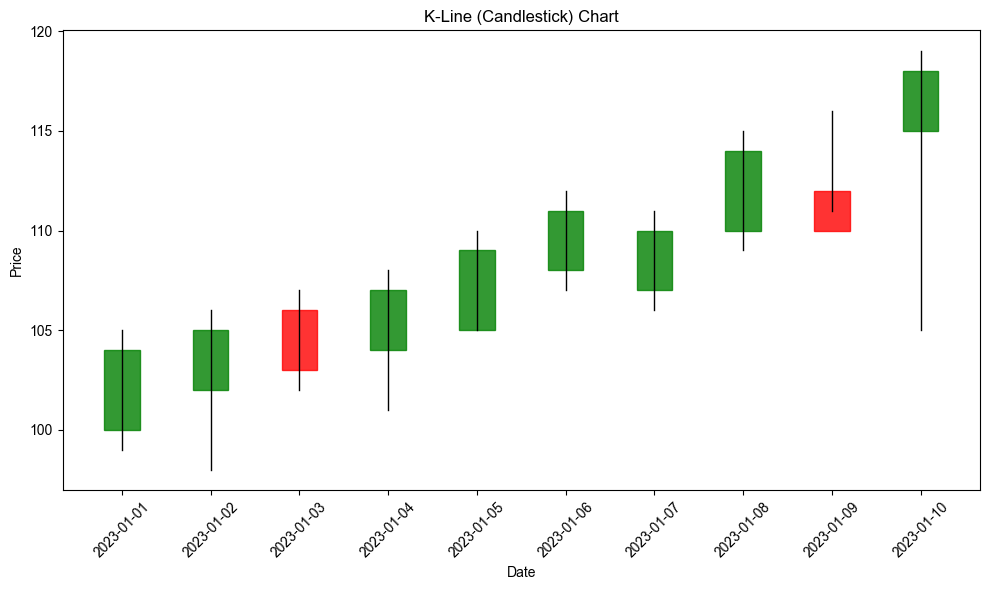
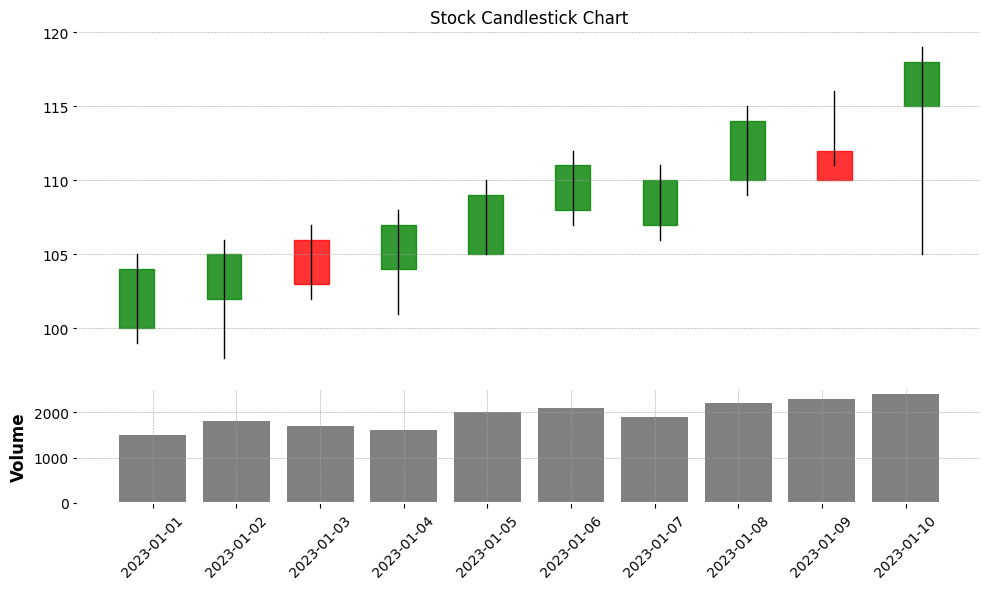
Commit on 2024-09-17 23:51:20

diff --git a/D80_機器學習/92_Matplotlib.md b/D80_機器學習/92_Matplotlib.md
@@ -1064,8 +1064,8 @@ _或稱 `長條圖`_
 
     ```python
     import matplotlib.pyplot as plt
-    import numpy as np
     import pandas as pd
+    import numpy as np
 
     # 模擬股票數據
     data = {
@@ -1074,16 +1074,19 @@ _或稱 `長條圖`_
         "High": [105, 106, 107, 108, 110, 112, 111, 115, 116, 119],
         "Low": [99, 98, 102, 101, 105, 107, 106, 109, 111, 105],
         "Close": [104, 105, 103, 107, 109, 111, 110, 114, 110, 118],
+        "Volume": [1500, 1800, 1700, 1600, 2000, 2100, 1900, 2200, 2300, 2400],
     }
 
     # 將數據轉換為 DataFrame 並設置日期為索引
     df = pd.DataFrame(data)
     df.set_index("Date", inplace=True)
 
-    # 開始繪製 K 線圖
-    fig, ax = plt.subplots(figsize=(10, 6))
+    # 創建子圖，用來同時顯示 K 線圖和成交量
+    fig, (ax1, ax2) = plt.subplots(
+        2, 1, gridspec_kw={"height_ratios": [3, 1]}, figsize=(10, 6)
+    )
 
-    # 設置顏色：上漲用綠色，下跌用紅色
+    # K 線圖顏色設定
     colors = [
         "green" if close >= open_ else "red"
         for open_, close in zip(df["Open"], df["Close"])
@@ -1093,10 +1096,10 @@ _或稱 `長條圖`_
     for i, (date, open_, close, high, low) in enumerate(
         zip(df.index, df["Open"], df["Close"], df["High"], df["Low"])
     ):
-        # 繪製影線（最高價到最低價）
-        ax.plot([i, i], [low, high], color="black", linewidth=1)
+        # 影線（最高價到最低價）
+        ax1.plot([i, i], [low, high], color="black", linewidth=1)
 
-        # 繪製矩形表示開盤價到收盤價
+        # 繪製矩形代表 K 線燭台
         rect = plt.Rectangle(
             (i - 0.2, min(open_, close)),
             0.4,
@@ -1104,17 +1107,19 @@ _或稱 `長條圖`_
             color=colors[i],
             alpha=0.8,
         )
-        ax.add_patch(rect)
+        ax1.add_patch(rect)
 
-    # 設置 X 軸日期標籤
-    ax.set_xticks(range(len(df.index)))
-    ax.set_xticklabels(df.index.strftime("%Y-%m-%d"), rotation=45)
+    # 隱藏 K 線圖的 X 軸標籤
+    ax1.set_xticks([])
+    ax1.set_title("Stock Candlestick Chart")
 
-    # 設置標題和軸標籤
-    ax.set_title("K-Line (Candlestick) Chart")
-    ax.set_xlabel("Date")
-    ax.set_ylabel("Price")
+    # 繪製成交量圖
+    ax2.bar(range(len(df.index)), df["Volume"], color="gray")
+    ax2.set_xticks(range(len(df.index)))
+    ax2.set_xticklabels(df.index.strftime("%Y-%m-%d"), rotation=45)
+    ax2.set_ylabel("Volume")
 
+    # 調整布局
     plt.tight_layout()
     plt.show()
     ```
@@ -1152,6 +1157,76 @@ _或稱 `長條圖`_
     ```
 
     ![](images/img_210.png)
+
+<br>
+
+4. 繼續使用 Matplotlib，在 K 線圖上添加一條平滑的五日移動平均線，可以計算收盤價的移動平均值，然後將其繪製在 K 線圖上，使用平滑曲線來顯示。
+
+    ```python
+    import matplotlib.pyplot as plt
+    import pandas as pd
+    import numpy as np
+
+    # 模擬股票數據
+    data = {
+        "Date": pd.date_range(start="2023-01-01", periods=10, freq="D"),
+        "Open": [100, 102, 106, 104, 105, 108, 107, 110, 112, 115],
+        "High": [105, 106, 107, 108, 110, 112, 111, 115, 116, 119],
+        "Low": [99, 98, 102, 101, 105, 107, 106, 109, 111, 105],
+        "Close": [104, 105, 103, 107, 109, 111, 110, 114, 110, 118],
+        "Volume": [1500, 1800, 1700, 1600, 2000, 2100, 1900, 2200, 2300, 2400],
+    }
+
+    # 將數據轉換為 DataFrame 並設置日期為索引
+    df = pd.DataFrame(data)
+    df.set_index("Date", inplace=True)
+
+    # 計算 5 日移動平均線
+    df['MA5'] = df['Close'].rolling(window=5).mean()
+
+    # 創建子圖，用來同時顯示 K 線圖和成交量
+    fig, (ax1, ax2) = plt.subplots(2, 1, gridspec_kw={"height_ratios": [3, 1]}, figsize=(10, 6))
+
+    # K 線圖顏色設定
+    colors = ["green" if close >= open_ else "red" for open_, close in zip(df["Open"], df["Close"])]
+
+    # 繪製 K 線圖
+    for i, (date, open_, close, high, low) in enumerate(zip(df.index, df["Open"], df["Close"], df["High"], df["Low"])):
+        # 影線（最高價到最低價）
+        ax1.plot([i, i], [low, high], color="black", linewidth=1)
+
+        # 繪製矩形代表 K 線燭台
+        rect = plt.Rectangle(
+            (i - 0.2, min(open_, close)),
+            0.4,
+            abs(open_ - close),
+            color=colors[i],
+            alpha=0.8,
+        )
+        ax1.add_patch(rect)
+
+    # 繪製收盤價的 5 日移動平均線
+    ax1.plot(range(len(df.index)), df['MA5'], label='MA5', color='blue', linewidth=2)
+
+    # 隱藏 K 線圖的 X 軸標籤
+    ax1.set_xticks([])
+    ax1.set_title("Stock Candlestick Chart with MA5")
+
+    # 添加移動平均線圖例
+    ax1.legend()
+
+    # 繪製成交量圖
+    ax2.bar(range(len(df.index)), df["Volume"], color="gray")
+    ax2.set_xticks(range(len(df.index)))
+    ax2.set_xticklabels(df.index.strftime("%Y-%m-%d"), rotation=45)
+    ax2.set_ylabel("Volume")
+
+    # 調整布局
+    plt.tight_layout()
+    plt.show()
+    ```
+
+    ![](images/img_211.png)
 
 <br>
 
